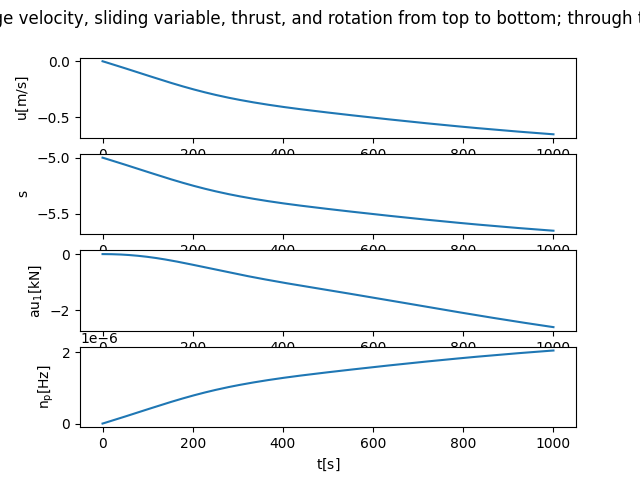
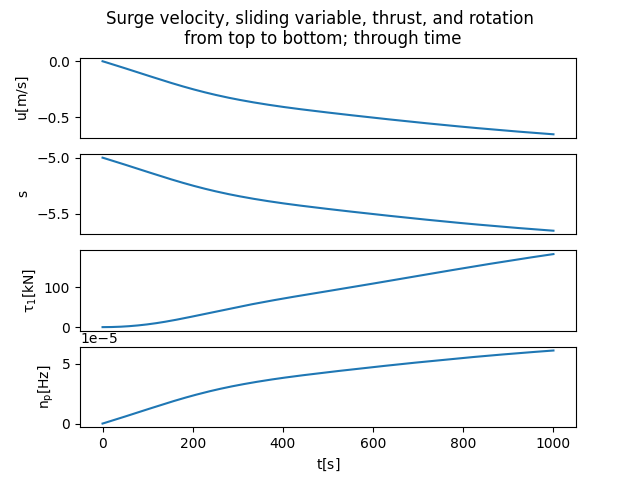
working but with horrible results

diff --git a/src/modules/controllers/SurgeController/utils/plots.py b/src/modules/controllers/SurgeController/utils/plots.py
@@ -12,18 +12,21 @@ def getPlots(
     plt.rcParams.update(params)
 
     fig, axs = plt.subplots(4)
-    fig.suptitle("Surge velocity, sliding variable, thrust, and rotation from top to bottom; through time")
+    fig.suptitle("Surge velocity, sliding variable, thrust, and rotation\n from top to bottom; through time")
     axs[0].plot(tspan, vetx)
-    axs[0].set_ylabel("$u [m/s]$")
+    axs[0].set_ylabel(r"$u [m/s]$")
+    axs[0].axes.get_xaxis().set_visible(False)
 
     axs[1].plot(tspan, vets)
-    axs[1].set_ylabel("$s$")
+    axs[1].set_ylabel(r"$s$")
+    axs[1].axes.get_xaxis().set_visible(False)
 
     axs[2].plot(tspan, vettau)
-    axs[2].set_ylabel("$\tau_1 [kN]$")
+    axs[2].set_ylabel(r"$\tau_1 [kN]$")
+    axs[2].axes.get_xaxis().set_visible(False)
 	
     axs[3].plot(tspan, vetnp)
-    axs[3].set_ylabel("$n_p [Hz]$")
-    axs[3].set_xlabel("$t [s]$")
+    axs[3].set_ylabel(r"$n_p [Hz]$")
+    axs[3].set_xlabel(r"$t [s]$")
 
     plt.savefig("modules/controllers/SurgeController/results/simulation.png")

diff --git a/src/modules/controllers/SurgeController/utils/metrics.py b/src/modules/controllers/SurgeController/utils/metrics.py
@@ -15,22 +15,33 @@ def getMetrics(
     vetnp: np.array) -> dict:
 
     idx_ts = np.where(vetx>0.02*(x0-(xd-phi))+(xd-phi))[0]
+    print(f"idx_ts = {idx_ts}")
     ts = tspan[idx_ts];
-
+    print(f"ts = {ts}")
     idx_ta = np.where(vets> -phi)[0];
+    print(f"idx_ta = {idx_ta}")
     ta = tspan[idx_ta];
+    print(f"ta = {ta}")
 
     overshoot = max(vetx) - xd
+    print(f"overshoot = {overshoot}")
 
     e_regime = vetx[-1]-xd;
+    print(f"e_regime = {e_regime}")
 
     x_slipstart = vetx[idx_ta];
+    print(f"x_slipstart = {x_slipstart}")
     x_tau = x_slipstart + 0.6321*(xd-x_slipstart);
+    print(f"x_tau = {x_tau}")
     idx_tau = np.where(vetx>x_tau)[0];
+    print(f"idx_tau = {idx_tau}")
     tau = tspan[idx_tau] - tspan[idx_ta];
+    print(f"tau = {tau}")
 
     tau_max = max(vettau)
+    print(f"tau_max = {tau_max}")
     np_max = max(vetnp)
+    print(f"np_max = {np_max}")
 
     metrics = {
         "ts": ts,

diff --git a/src/modules/controllers/SurgeController/surge_controller.py b/src/modules/controllers/SurgeController/surge_controller.py
@@ -4,6 +4,8 @@ import modules.controllers.SurgeController as SurgeController
 
 phi = SurgeController.phi
 xd = SurgeController.xd
+m = SurgeController.m
+X_added_mass = SurgeController.X_added_mass
 
 def getNp(tau: float, x:float) -> float:
     c1 = 0.0354
@@ -17,9 +19,10 @@ def controller(x: float) -> float:
     # sat function
     sats = max(-1,min(s/phi,1))
     # input as function of x (control)
-    u = x*abs(x)*(1.9091*(10**-4) + 5.2142*(10**-5)*sats)
+    u = x*abs(x)*(1.9091*(10**-4) + (0.01 + 3.8*(10**-5)*x*abs(x))*sats)
     # thrust
     tau = u*(m - X_added_mass)
+    print(f"******* tau = {tau} ************")
     # control allocation
     Np = getNp(u, x)
 

diff --git a/src/main.py b/src/main.py
@@ -1,14 +1,15 @@
 from modules.simulation import simulation
-import modules.controllers.SurgeController as SurgeController
+from modules.controllers.SurgeController.utils.plots import getPlots as surge_plots
+from modules.controllers.SurgeController.utils.metrics import getMetrics as surge_metrics
 
 def main():
     # simulation results
     vets = simulation()
     # plot results
-    SurgeController.surge_plots(*vets)
+    surge_plots(*vets)
     # get metrics from results
-    SurgeController.surge_metrics(*vets)
-    print(surge_metrics)
+    sm = surge_metrics(*vets)
+    print(sm)
 
 if __name__ == "__main__":
     main()

diff --git a/src/modules/controllers/SurgeController/__init__.py b/src/modules/controllers/SurgeController/__init__.py
@@ -1,6 +1,3 @@
-from modules.controllers.SurgeController.utils.metrics import getMetrics as surge_metrics
-from modules.controllers.SurgeController.utils.plots import getPlots as surge_plots
-
 m = 40415
 X_added_mass = -3375
 phi = 0.01
